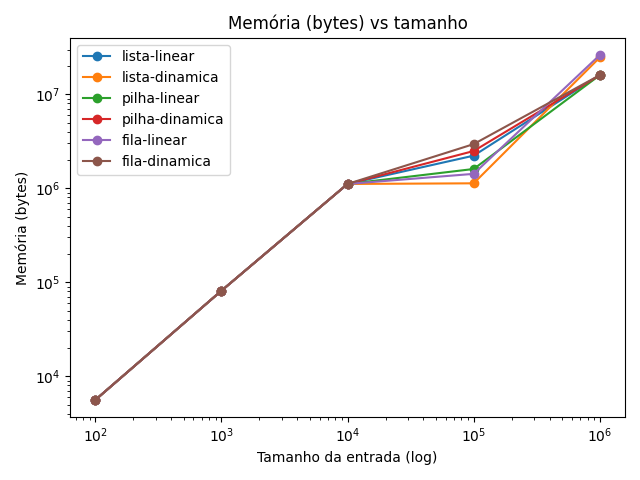
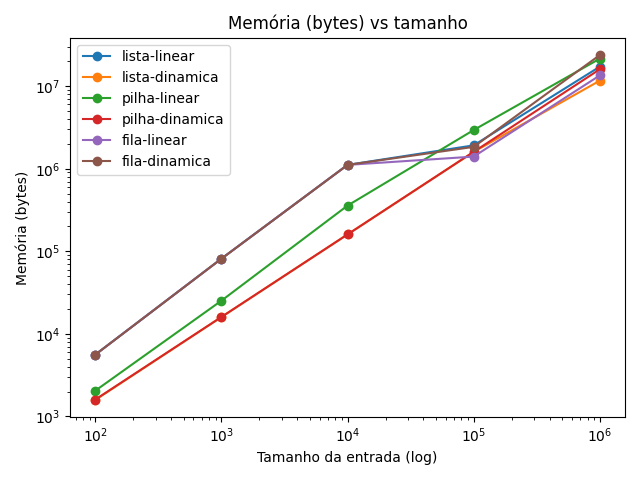
Atualização do Merge

diff --git a/main.go b/main.go
@@ -14,12 +14,13 @@ import (
 )
 
 type result struct {
-	Size          int
-	Structure     string // lista | pilha | fila
-	Representation string // linear | dinamica
-	DurationNS    int64
-	MemBytes      uint64
+    Size           int
+    Structure      string // lista | pilha | fila
+    Representation string // linear | dinamica
+    DurationS      float64
+    MemBytes       uint64
 }
+
 
 func runBenchmark(label string, data []int) (durNS int64, mem uint64) {
 	d, m := benchmark.MeasurePerformance(func() { _ = sort.MergeSort(data) })
@@ -27,81 +28,137 @@ func runBenchmark(label string, data []int) (durNS int64, mem uint64) {
 }
 
 func main() {
-	filePath := "data/ratings.csv"               // caminho relativo recomendado
-	sizes := []int{100, 1000, 10000, 100000, 1000000}
+    filePath := "data/ratings.csv"
+    sizes := []int{100, 1000, 10000, 100000, 1000000}
 
-	var results []result
+    var results []result
+    const nExec = 10
 
-	for _, size := range sizes {
-		src, err := reader.LoadRatings(filePath, size)
-		if err != nil {
-			log.Fatalf("erro ao ler csv: %v", err)
-		}
-		fmt.Printf("\n===== %d entradas =====\n", size)
+    for _, size := range sizes {
+        src, err := reader.LoadRatings(filePath, size)
+        if err != nil {
+            log.Fatalf("erro ao ler csv: %v", err)
+        }
+        fmt.Printf("\n===== %d entradas =====\n", size)
 
-		// -------- Lista (slice)
-		dur, mem := runBenchmark("slice", src)
-		results = append(results, result{size, "lista", "linear", dur, mem})
-		fmt.Printf("Lista linear        : %v ns | %d B\n", dur, mem)
+        // -------- Lista (slice)
+        var sumDur, sumMem int64
+        for i := 0; i < nExec; i++ {
+            dur, mem := runBenchmark("slice", src)
+            sumDur += dur
+            sumMem += int64(mem)
+        }
+        avgDur := float64(sumDur) / float64(nExec) / 1e9
+        avgMem := sumMem / nExec
+        results = append(results, result{size, "lista", "linear", avgDur, uint64(avgMem)})
+        fmt.Printf("Lista linear        : %.6f s | %d B\n", avgDur, avgMem)
 
-		// -------- Lista encadeada
-		ll := structures.FromSlice(src)
-		dur, mem = runBenchmark("linked list", ll.ToSlice())
-		results = append(results, result{size, "lista", "dinamica", dur, mem})
-		fmt.Printf("Lista dinâmica      : %v ns | %d B\n", dur, mem)
+        // -------- Lista encadeada (ordenar vetor e inserir)
+        sumDur, sumMem = 0, 0
+        for i := 0; i < nExec; i++ {
+            vetor := make([]int, len(src))
+            copy(vetor, src)
+            durSort, _ := runBenchmark("sort for linked list", vetor)
+            durInsert, mem := benchmark.MeasurePerformance(func() {
+                _ = structures.FromSlice(vetor)
+            })
+            sumDur += durSort + durInsert.Nanoseconds()
+            sumMem += int64(mem)
+        }
+        avgDur = float64(sumDur) / float64(nExec) / 1e9
+        avgMem = sumMem / nExec
+        results = append(results, result{size, "lista", "dinamica", avgDur, uint64(avgMem)})
+        fmt.Printf("Lista dinâmica      : %.6f s | %d B\n", avgDur, avgMem)
 
-		// -------- Pilha linear
-		sl := structures.NewStackLinear()
-		for _, v := range src { sl.Push(v) }
-		dur, mem = runBenchmark("stack slice", sl.ToSlice())
-		results = append(results, result{size, "pilha", "linear", dur, mem})
-		fmt.Printf("Pilha linear        : %v ns | %d B\n", dur, mem)
+        // -------- Pilha linear (ordenar vetor e inserir)
+        sumDur, sumMem = 0, 0
+        for i := 0; i < nExec; i++ {
+            vetor := make([]int, len(src))
+            copy(vetor, src)
+            durSort, _ := runBenchmark("sort for stack slice", vetor)
+            sl := structures.NewStackLinear()
+            durInsert, mem := benchmark.MeasurePerformance(func() {
+                for _, v := range vetor { sl.Push(v) }
+            })
+            sumDur += durSort + durInsert.Nanoseconds()
+            sumMem += int64(mem)
+        }
+        avgDur = float64(sumDur) / float64(nExec) / 1e9
+        avgMem = sumMem / nExec
+        results = append(results, result{size, "pilha", "linear", avgDur, uint64(avgMem)})
+        fmt.Printf("Pilha linear        : %.6f s | %d B\n", avgDur, avgMem)
 
-		// -------- Pilha dinâmica
-		sd := structures.NewStackDynamic()
-		for _, v := range src { sd.Push(v) }
-		dur, mem = runBenchmark("stack dyn", sd.ToSlice())
-		results = append(results, result{size, "pilha", "dinamica", dur, mem})
-		fmt.Printf("Pilha dinâmica      : %v ns | %d B\n", dur, mem)
+        // -------- Pilha dinâmica (ordenar vetor e inserir)
+        sumDur, sumMem = 0, 0
+        for i := 0; i < nExec; i++ {
+            vetor := make([]int, len(src))
+            copy(vetor, src)
+            durSort, _ := runBenchmark("sort for stack dyn", vetor)
+            sd := structures.NewStackDynamic()
+            durInsert, mem := benchmark.MeasurePerformance(func() {
+                for _, v := range vetor { sd.Push(v) }
+            })
+            sumDur += durSort + durInsert.Nanoseconds()
+            sumMem += int64(mem)
+        }
+        avgDur = float64(sumDur) / float64(nExec) / 1e9
+        avgMem = sumMem / nExec
+        results = append(results, result{size, "pilha", "dinamica", avgDur, uint64(avgMem)})
+        fmt.Printf("Pilha dinâmica      : %.6f s | %d B\n", avgDur, avgMem)
 
-		// -------- Fila linear
-		ql := structures.NewQueueLinear()
-		for _, v := range src { ql.Enqueue(v) }
-		dur, mem = runBenchmark("queue slice", ql.ToSlice())
-		results = append(results, result{size, "fila", "linear", dur, mem})
-		fmt.Printf("Fila linear         : %v ns | %d B\n", dur, mem)
+        // -------- Fila linear
+        sumDur, sumMem = 0, 0
+        for i := 0; i < nExec; i++ {
+            ql := structures.NewQueueLinear()
+            for _, v := range src { ql.Enqueue(v) }
+            dur, mem := runBenchmark("queue slice", ql.ToSlice())
+            sumDur += dur
+            sumMem += int64(mem)
+        }
+        avgDur = float64(sumDur) / float64(nExec) / 1e9
+        avgMem = sumMem / nExec
+        results = append(results, result{size, "fila", "linear", avgDur, uint64(avgMem)})
+        fmt.Printf("Fila linear         : %.6f s | %d B\n", avgDur, avgMem)
 
-		// -------- Fila dinâmica
-		qd := structures.NewQueueDynamic()
-		for _, v := range src { qd.Enqueue(v) }
-		dur, mem = runBenchmark("queue dyn", qd.ToSlice())
-		results = append(results, result{size, "fila", "dinamica", dur, mem})
-		fmt.Printf("Fila dinâmica       : %v ns | %d B\n", dur, mem)
-	}
+        // -------- Fila dinâmica
+        sumDur, sumMem = 0, 0
+        for i := 0; i < nExec; i++ {
+            qd := structures.NewQueueDynamic()
+            for _, v := range src { qd.Enqueue(v) }
+            dur, mem := runBenchmark("queue dyn", qd.ToSlice())
+            sumDur += dur
+            sumMem += int64(mem)
+        }
+        avgDur = float64(sumDur) / float64(nExec) / 1e9
+        avgMem = sumMem / nExec
+        results = append(results, result{size, "fila", "dinamica", avgDur, uint64(avgMem)})
+        fmt.Printf("Fila dinâmica       : %.6f s | %d B\n", avgDur, avgMem)
+    }
 
-	if err := saveCSV("results.csv", results); err != nil {
-		log.Fatalf("erro ao salvar CSV: %v", err)
-	}
-	fmt.Println("\nResultados salvos em results.csv ✅")
+    if err := saveCSV("results.csv", results); err != nil {
+        log.Fatalf("erro ao salvar CSV: %v", err)
+    }
+    fmt.Println("\nResultados salvos em results.csv ✅")
 }
 
+
 func saveCSV(path string, rows []result) error {
-	f, err := os.Create(path)
-	if err != nil { return err }
-	defer f.Close()
+    f, err := os.Create(path)
+    if err != nil { return err }
+    defer f.Close()
 
-	w := csv.NewWriter(f)
-	defer w.Flush()
+    w := csv.NewWriter(f)
+    defer w.Flush()
 
-	_ = w.Write([]string{"size", "structure", "representation", "duration_ns", "mem_bytes"})
-	for _, r := range rows {
-		_ = w.Write([]string{
-			strconv.Itoa(r.Size),
-			r.Structure,
-			r.Representation,
-			strconv.FormatInt(r.DurationNS, 10),
-			strconv.FormatUint(r.MemBytes, 10),
-		})
-	}
-	return w.Error()
+    _ = w.Write([]string{"size", "structure", "representation", "duration_s", "mem_bytes"})
+    for _, r := range rows {
+        _ = w.Write([]string{
+            strconv.Itoa(r.Size),
+            r.Structure,
+            r.Representation,
+            fmt.Sprintf("%.6f", r.DurationS),
+            strconv.FormatUint(r.MemBytes, 10),
+        })
+    }
+    return w.Error()
 }
